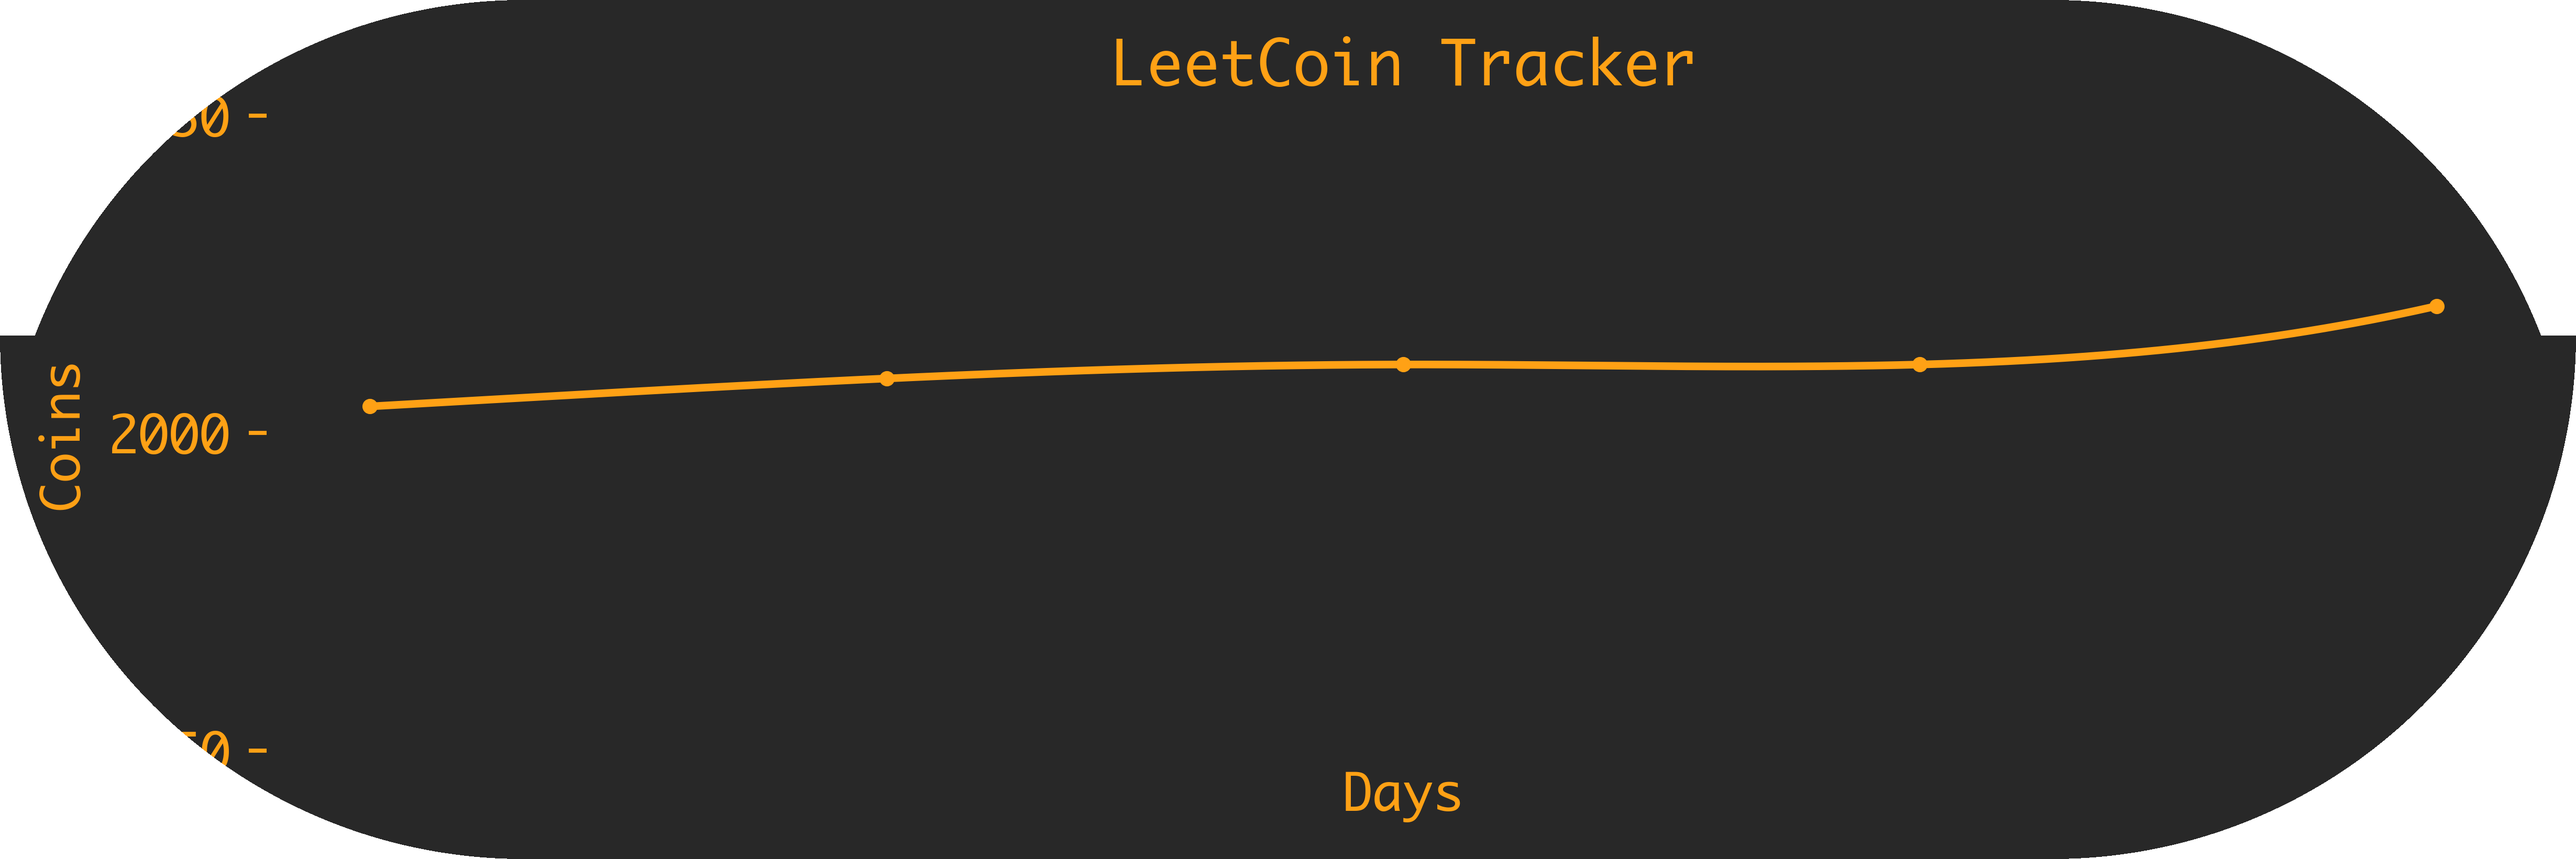
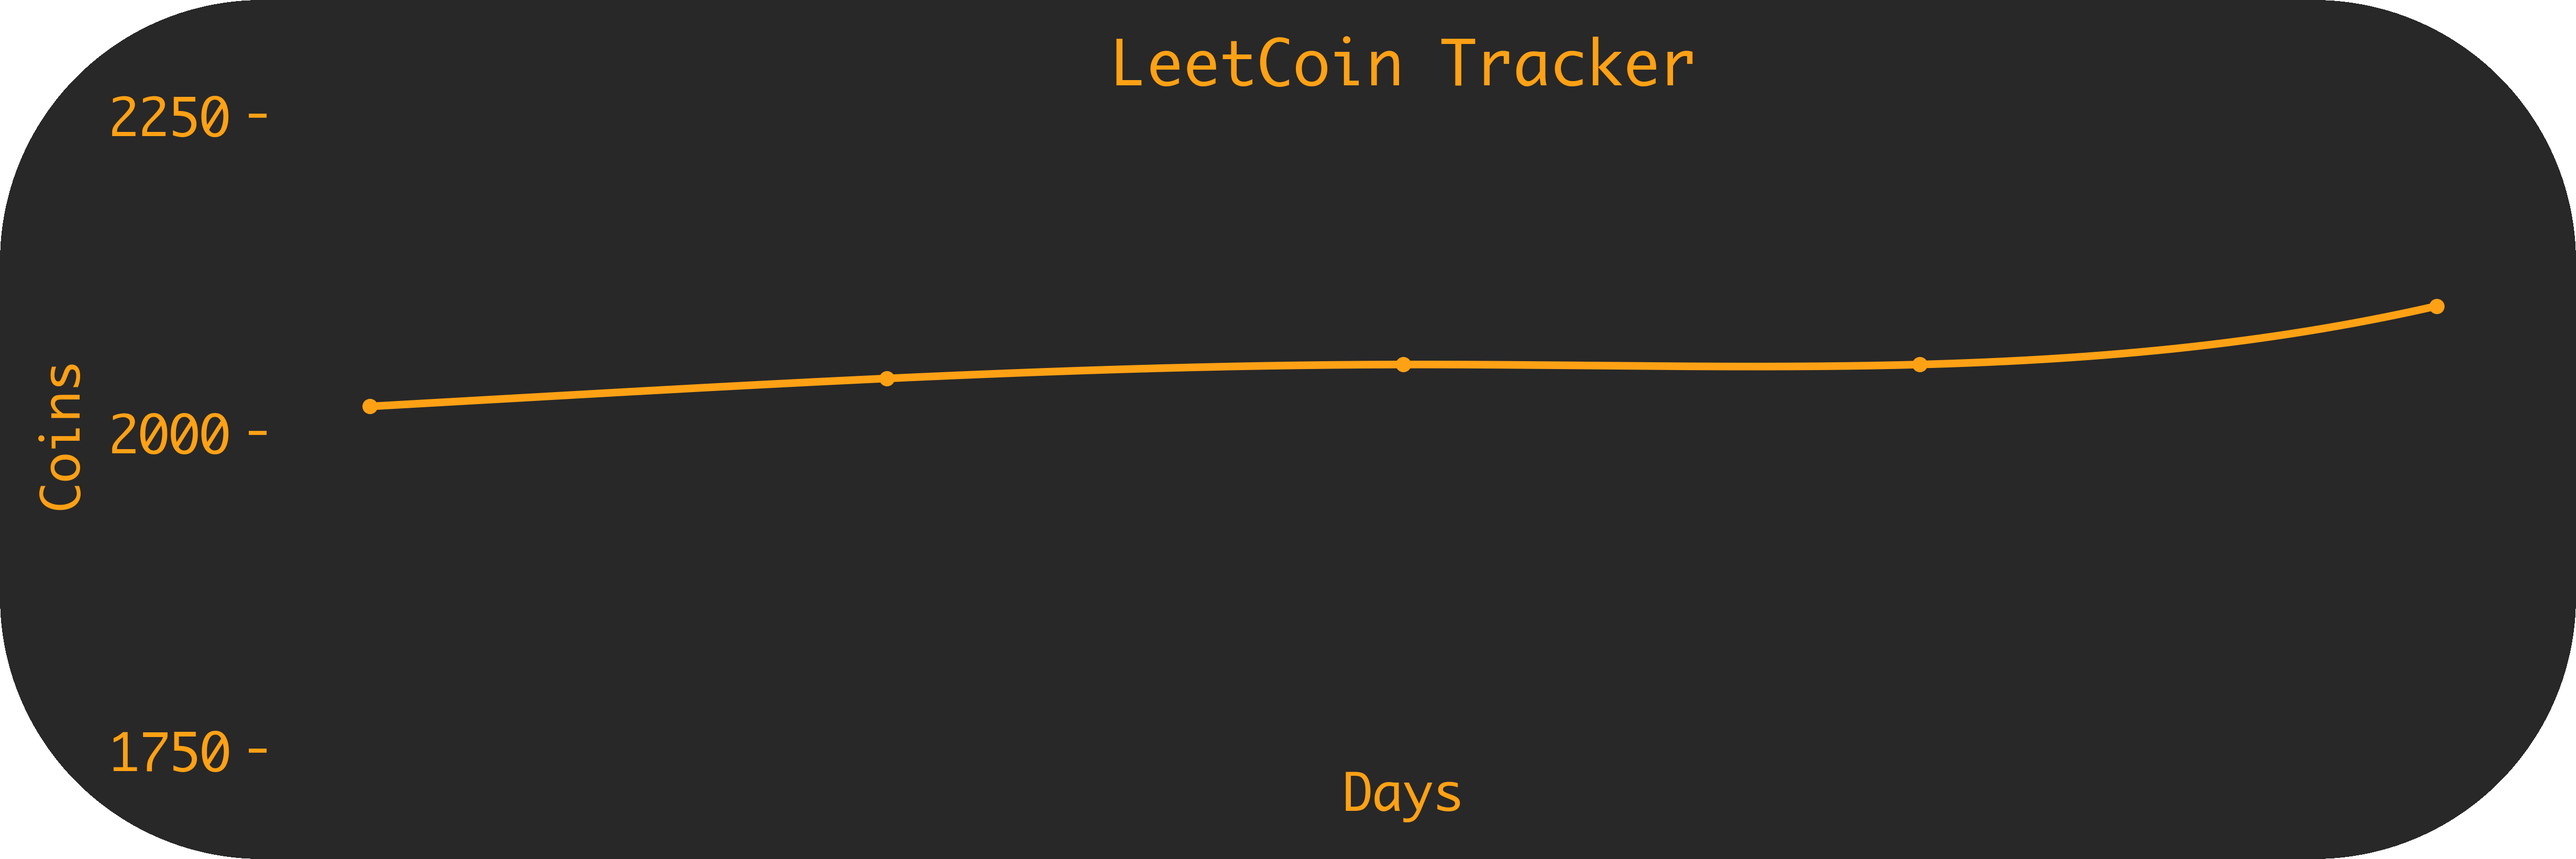
test

diff --git a/round_corners.py b/round_corners.py
@@ -1,9 +1,11 @@
 from PIL import Image, ImageDraw
+
+
 def add_corners(im, rad):
-    circle = Image.new('L', (rad * 2, rad * 2), 0)
+    circle = Image.new("L", (rad * 2, rad * 2), 0)
     draw = ImageDraw.Draw(circle)
     draw.ellipse((0, 0, rad * 2 - 1, rad * 2 - 1), fill=255)
-    alpha = Image.new('L', im.size, 255)
+    alpha = Image.new("L", im.size, 255)
     w, h = im.size
     alpha.paste(circle.crop((0, 0, rad, rad)), (0, 0))
     alpha.paste(circle.crop((0, rad, rad, rad * 2)), (0, h - rad))
@@ -11,6 +13,8 @@ def add_corners(im, rad):
     alpha.paste(circle.crop((rad, rad, rad * 2, rad * 2)), (w - rad, h - rad))
     im.putalpha(alpha)
     return im
-im = Image.open('points_graph.png')
-im = add_corners(im, 1000)
-im.save('tiger.png')
+
+
+im = Image.open("points_graph.png")
+im = add_corners(im, 500)
+im.save("tiger.png")
